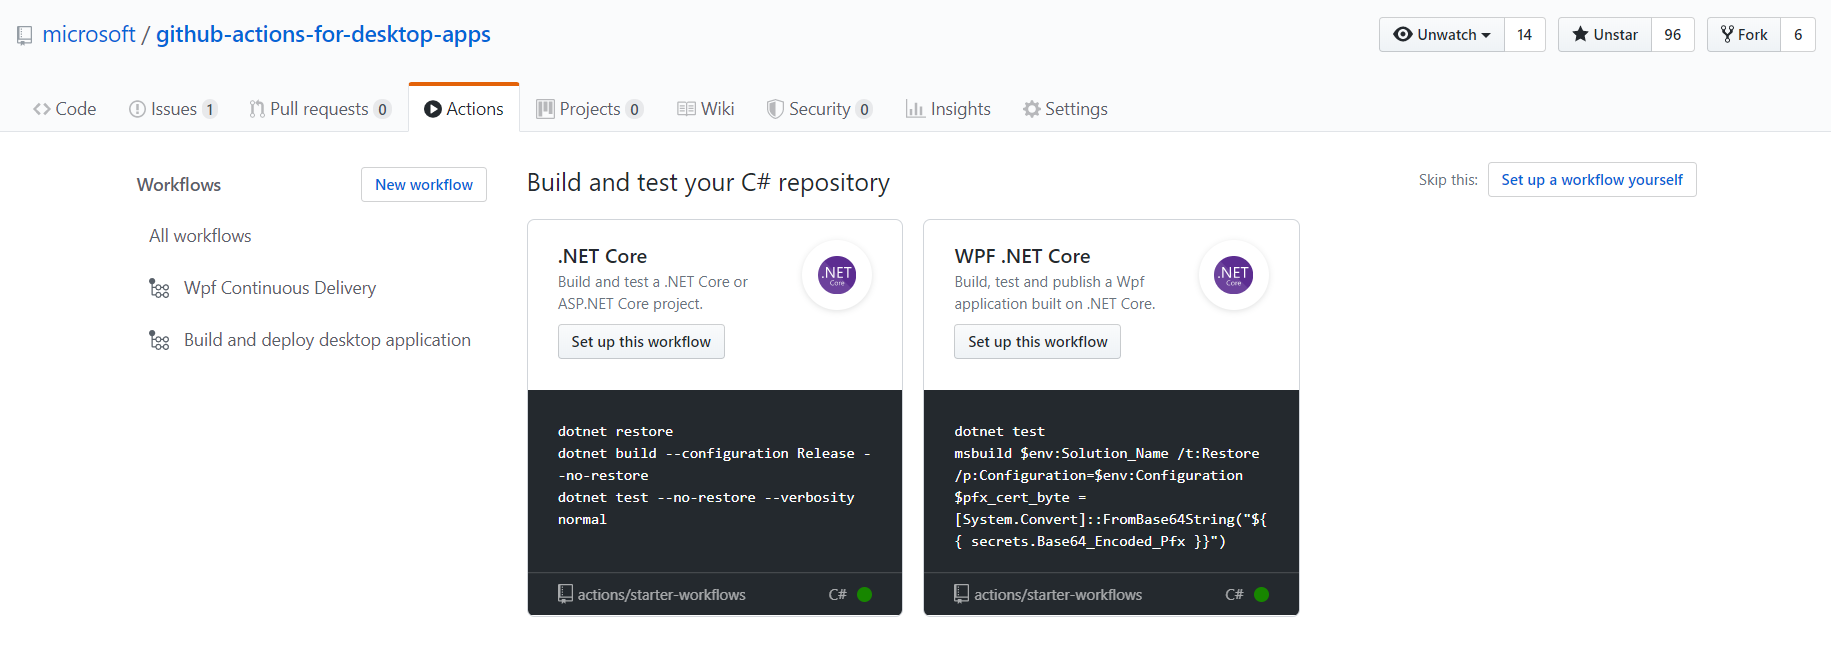
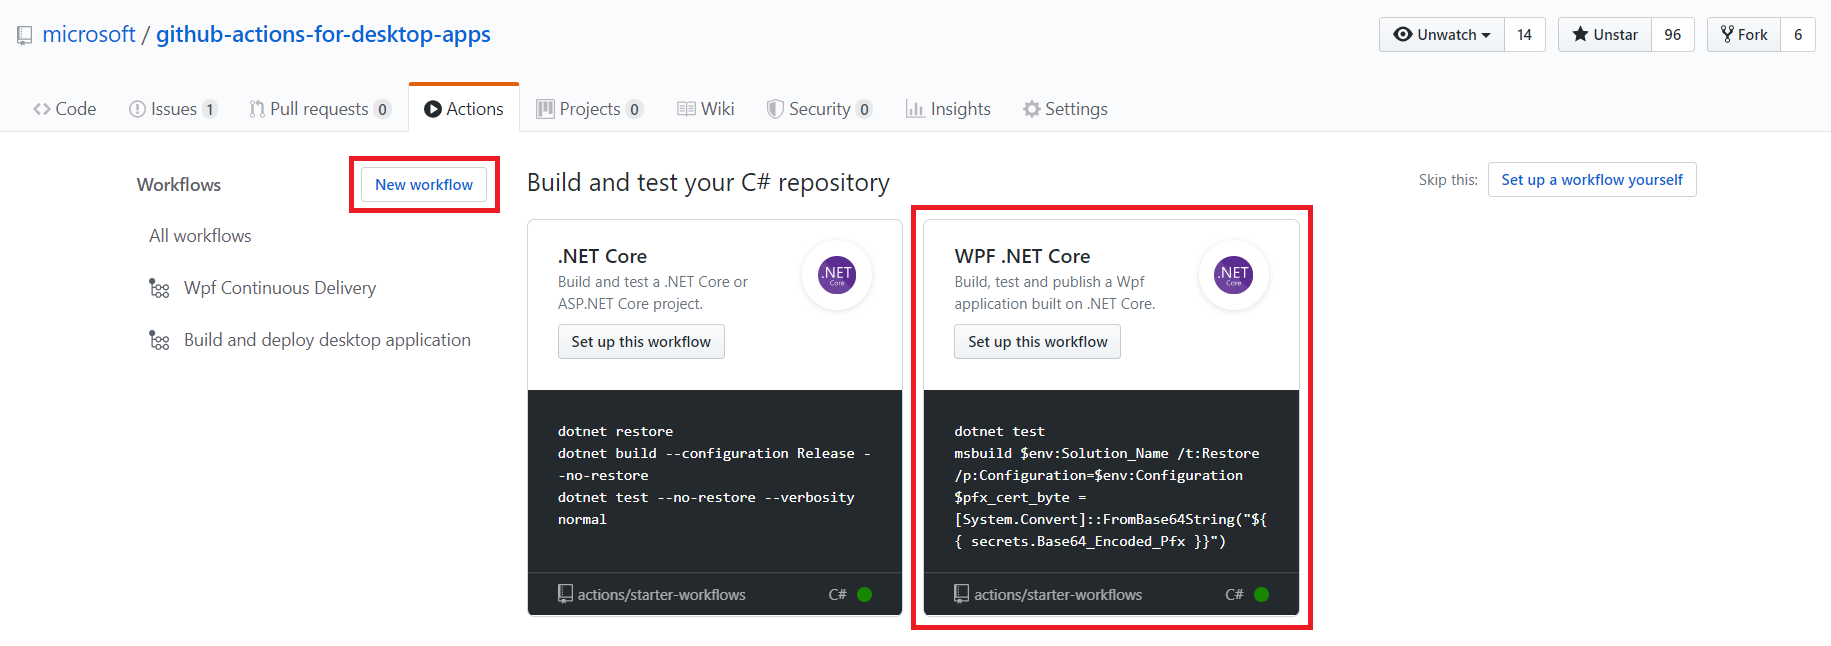
Responded to PR feedback and added instructions to the photo.

diff --git a/2020/05-May/github-actions-workflow-template/github-actions-workflow-template.md b/2020/05-May/github-actions-workflow-template/github-actions-workflow-template.md
@@ -14,7 +14,7 @@ The starter workflow template can be added directly to your project in a few sim
 
 Like the [.NET Core starter workflow template](https://github.com/actions/starter-workflows/blob/master/ci/dotnet-core.yml, "GitHub Actions .NET Core Starter Workflow Template page"), this WPF .NET Core template provides the commands to build and test your application on any of [GitHub's avilable hosted runner types](https://help.github.com/en/actions/reference/workflow-syntax-for-github-actions#jobsjob_idruns-on, "Available GitHub-hosted runner types page"), such as Windows, Mac OS or Ubuntu. 
 
-The WPF .NET Core starter workflow takes things a few steps further. First, this workflow template details the steps necessary to securely use your signing certificate in a GitHub continuous integration pipeline. Secon, with this template, you will be able to generate a package of your app for testing or release, by leveraging a [Windows Application Packaging Project](https://docs.microsoft.com/en-us/windows/msix/desktop/desktop-to-uwp-packaging-dot-net, "Set up your desktop app for packaging in Visual Studio"). Although the template uses a WPF application built on .NET Core, it can easily be adapted for Windows Forms or even UWP applications.
+However, the WPF .NET Core starter workflow takes things a few steps further. For example, in addition to providing the steps to build and test your app, this workflow template details the steps necessary to securely use your signing certificate in a GitHub continuous integration pipeline. Furthermore, with this template, you will be able to generate a package of your app for testing or release, by leveraging a [Windows Application Packaging Project](https://docs.microsoft.com/en-us/windows/msix/desktop/desktop-to-uwp-packaging-dot-net, "Set up your desktop app for packaging in Visual Studio").
 
 To add the workflow:
 1. Navigate to the "Actions" tab in your GitHub project.
